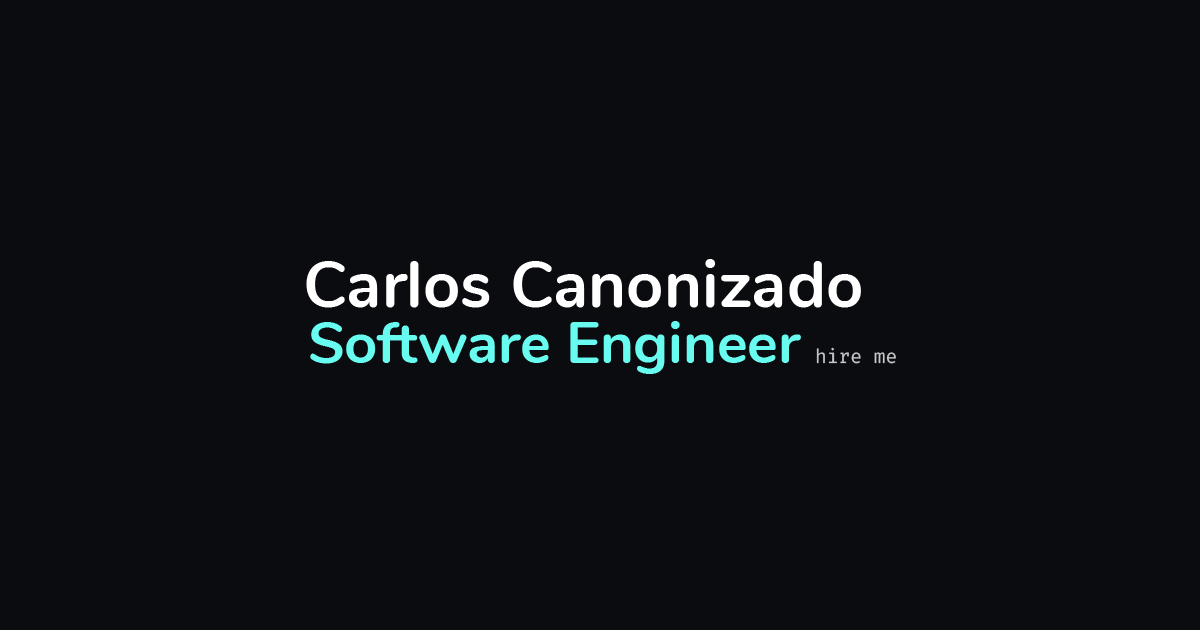
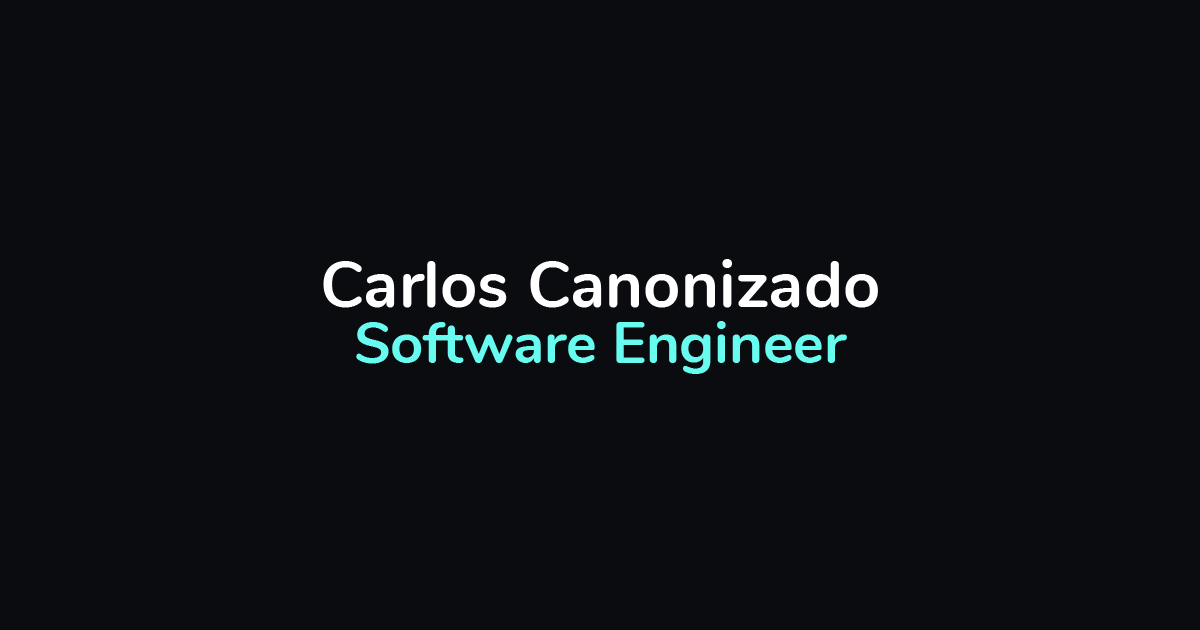
Change content to no longer show for hiring

Changed region(s): [[0.2467, 0.3921, 0.74, 0.6032]]

diff --git a/src/constants/content.js b/src/constants/content.js
@@ -91,11 +91,11 @@ module.exports = {
   contact: {
     header: 'CONTACT ME',
     content: [
-      'I am currently looking for remote opportunities.\n\nIf you are looking for someone to add to your team, I might be the right guy!\nOr if you just want to talk, share ideas, or just connect, feel free to send me an email at ',
+      'If you want to talk, share ideas, or just connect, feel free to send me an email at ',
       <a key="email" href="mailto:canonizadocarlos@gmail.com">
         canonizadocarlos@gmail.com
       </a>,
-      '.\n\nYou can also take a look at my LinkedIn and other projects at GitHub.'
+      '.\nYou can also take a look at my LinkedIn and other projects at GitHub.'
     ],
     linkedin: 'https://www.linkedin.com/in/ccanonizado/',
     github: 'https://github.com/ccanonizado'
